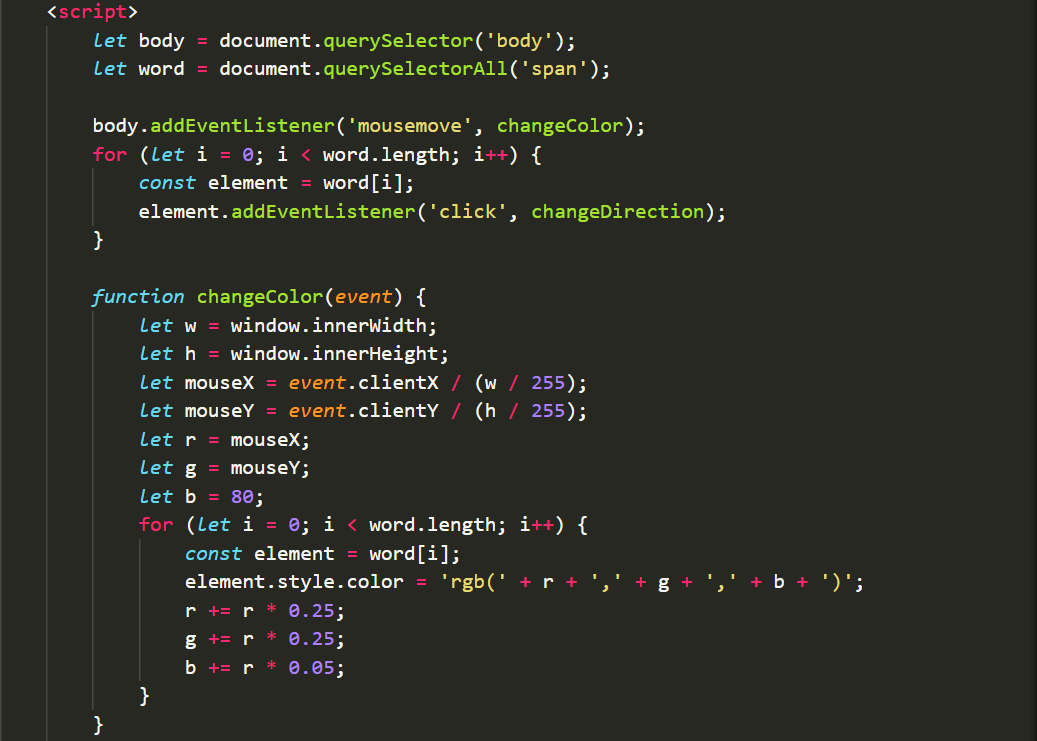
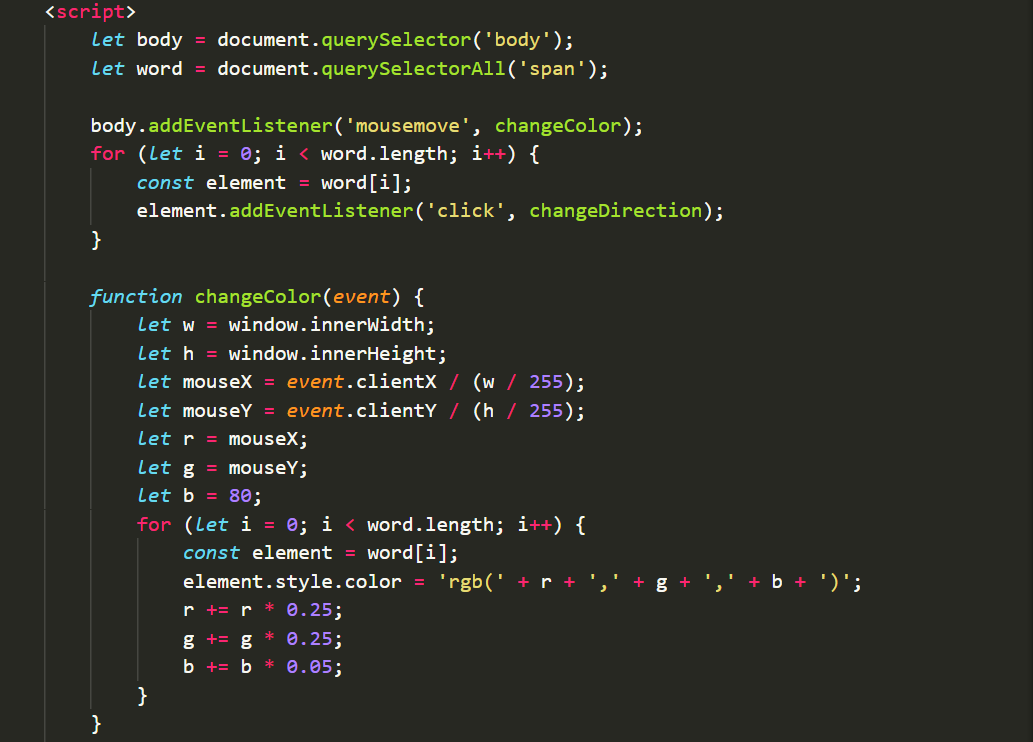
upd

diff --git a/lesson_25_ans_4.html b/lesson_25_ans_4.html
@@ -71,8 +71,8 @@
                 const element = word[i];
                 element.style.color = 'rgb(' + r + ',' + g + ',' + b + ')';
                 r += r * 0.25;
-                g += r * 0.25;
-                b += r * 0.05;
+                g += g * 0.25;
+                b += b * 0.05;
             }
         }
 
